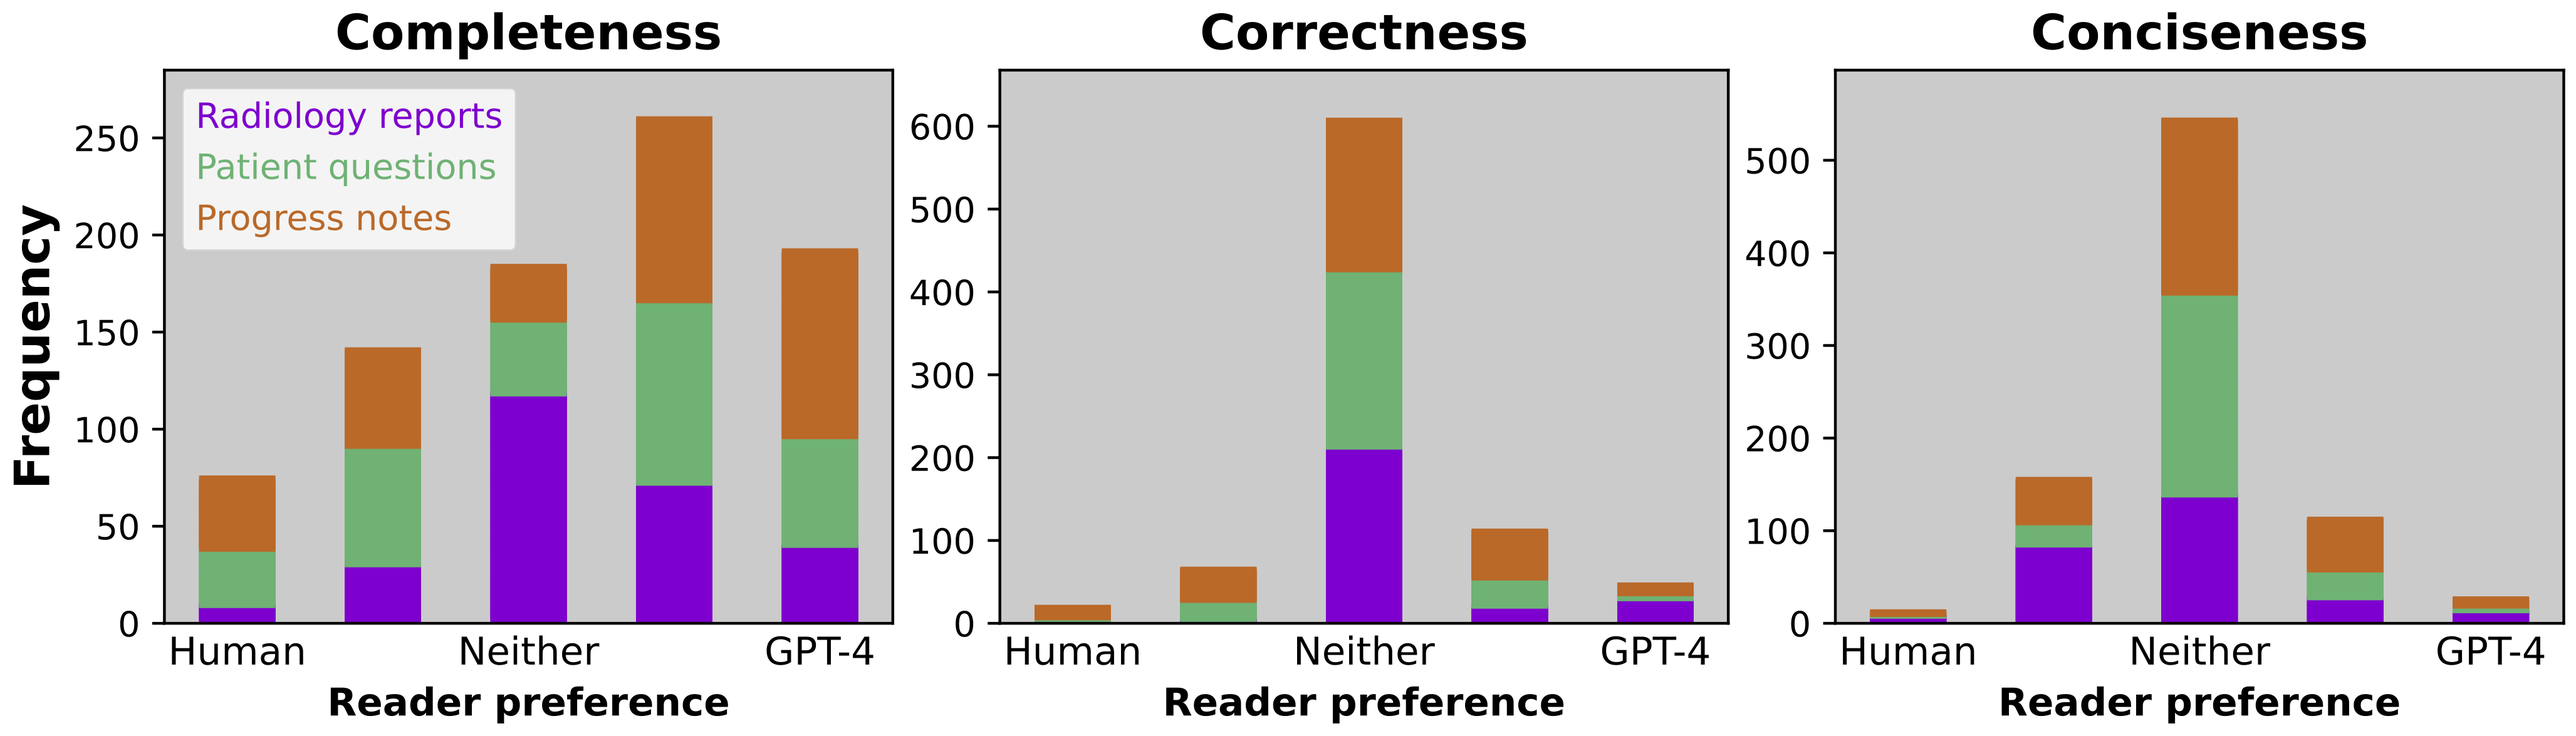
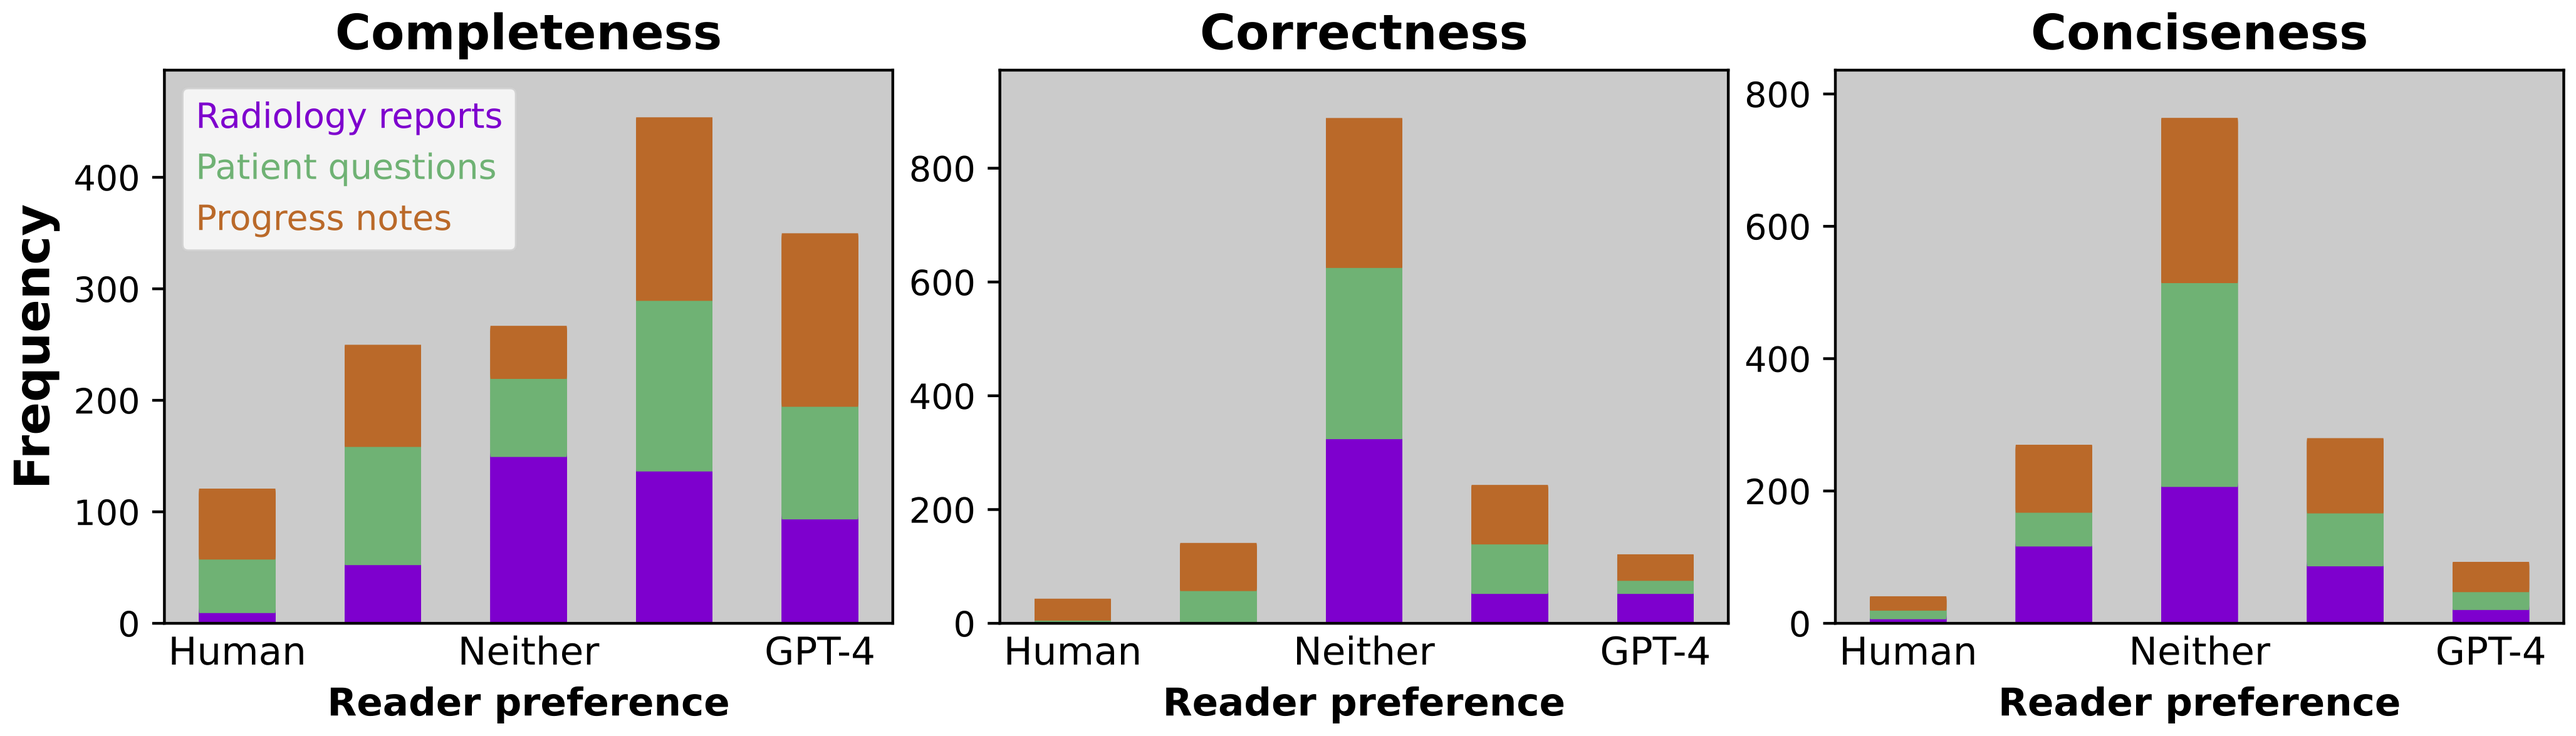
update to arxiv v2

diff --git a/index.html b/index.html
@@ -211,6 +211,29 @@
 					</td>
 					<td align=center width=120px >
 						<center>
+						<span><a href="https://www.linkedin.com/in/edreismd/">Eduardo P.<br />Reis</a></span>
+						</center>
+					</td>
+					<td align=center width=120px >
+						<center>
+						<span><a href="https://profiles.stanford.edu/anna-seehofnerova">Anna<br />Seehofnerova</a></span>
+						</center>
+					</td>
+				</tr>
+				
+				<tr style="font-size: 14px">
+					<td align=center width=120px >
+						<center>
+						<span><a href="https://profiles.stanford.edu/nidhi-rohatgi">Nidhi<br />Rohatgi</a></span>
+						</center>
+					</td>
+					<td align=center width=120px >
+						<center>
+						<span><a href="https://profiles.stanford.edu/poonam-hosamani">Poonam<br />Hosamani</a></span>
+						</center>
+					</td>
+					<td align=center width=120px >
+						<center>
 						<span><a href="https://profiles.stanford.edu/william-collins">William<br />Collins</a></span>
 						</center>
 					</td>
@@ -219,14 +242,14 @@
 						<span><a href="https://profiles.stanford.edu/neera-ahuja">Neera<br />Ahuja</a></span>
 						</center>
 					</td>
-				</tr>
-
-				<tr style="font-size: 14px">
 					<td align=center width=120px >
 						<center>
 						<span><a href="https://profiles.stanford.edu/curtis-langlotz">Curtis P.<br />Langlotz</a></span>
 						</center>
 					</td>
+				</tr>
+
+				<tr style="font-size: 14px">
 					<td align=center width=120px >
 						<center>
 						<span><a href="https://profiles.stanford.edu/jason-hom">Jason<br />Hom</a></span>
@@ -305,9 +328,33 @@
 		<center><h1>Abstract</h1></center>
 		<tr>
 			<td style='text-align: justify;'>
-				<p> Sifting through vast textual data and summarizing key information imposes a substantial burden on how clinicians allocate their time. Although large language models (LLMs) have shown immense promise in natural language processing (NLP) tasks, their efficacy across diverse clinical summarization tasks has not yet been rigorously examined.</p>
-				<p>In this work, we employ domain adaptation methods on eight LLMs, spanning six datasets and four distinct summarization tasks: radiology reports, patient questions, progress notes, and doctor-patient dialogue. Our thorough quantitative assessment reveals trade-offs between models and adaptation methods in addition to instances where recent advances in LLMs may not lead to improved results. Further, in a clinical reader study with six physicians, we depict that summaries from the best adapted LLM are preferable to human summaries in terms of completeness and correctness. Our ensuing qualitative analysis delineates mutual challenges faced by both LLMs and human experts. Lastly, we correlate traditional quantitative NLP metrics with reader study scores to enhance our understanding of how these metrics align with physician preferences.</p>
-				<p>Our research marks the first evidence of LLMs outperforming human experts in clinical text summarization across multiple tasks. This implies that integrating LLMs into clinical workflows could alleviate documentation burden, empowering clinicians to focus more on personalized patient care and other irreplaceable human aspects of medicine. </p>
+				<p>Sifting through vast textual data and summarizing key information from electronic health records (EHR) imposes a substantial burden on how clinicians allocate their time. Although large language models (LLMs) have shown immense promise in natural language processing (NLP) tasks, their efficacy on a diverse range of clinical summarization tasks has not yet been rigorously demonstrated.</p>
+				<p>In this work, we apply domain adaptation methods to eight LLMs, spanning six datasets and four distinct clinical summarization tasks: radiology reports, patient questions, progress notes, and doctor-patient dialogue. Our thorough quantitative assessment reveals trade-offs between models and adaptation methods in addition to instances where recent advances in LLMs may not improve results. Further, in a clinical reader study with ten physicians, we show that summaries from our best-adapted LLMs are preferable to human summaries in terms of completeness and correctness. Our ensuing qualitative analysis highlights challenges faced by both LLMs and human experts. Lastly, we correlate traditional quantitative NLP metrics with reader study scores to enhance our understanding of how these metrics align with physician preferences.</p>
+				<p>Our research marks the first evidence of LLMs outperforming human experts in clinical text summarization across multiple tasks. This implies that integrating LLMs into clinical workflows could alleviate documentation burden, empowering clinicians to focus more on personalized patient care and the inherently human aspects of medicine.</p>
+			</td>
+		</tr>
+	</table>
+	<br>
+    
+	<br>
+    <hr>
+    <br>
+
+	<br>
+	<table align=center width=400px>
+		<tr>
+			<td align=center width=400px >
+				<center >
+					<td class="img-magnifier-container"><img id="myimage" style="width:800px" src="resources/prompt_anatomy.png"/></td>
+				</center>
+			</td>
+		</tr>
+	</table>
+
+	<table align=center width=800px>
+		<tr>
+			<td align=left width=800px>
+				Prompt components used for both adaptation methods: in-context learning (ICL, m &gt; 0) and quantized low-rank adaptation (QLoRA, m &equals; 0).
 			</td>
 		</tr>
 	</table>
@@ -382,7 +429,7 @@
 	<table align=center width=800px>
 		<tr>
 			<td align=left width=800px>
-                    Clinical reader study. Top: Study design comparing the summarization of GPT-4 vs. that of human experts on three attributes: completeness, correctness, and conciseness. Bottom: Results. GPT-4 summaries are rated higher than human summaries on completeness for all three summarization tasks and on correctness overall. Radiology reports highlight a trade-off between correctness (better) and conciseness (worse) with GPT-4. Highlight colors correspond to a value’s location on the color spectrum. Asterisks denote statistical significance by Wilcoxon signed-rank test, &ast;p-value &lt; 0.05, &ast;&ast;p-value &lt;&lt; 0.001.
+					Clinical reader study. Top: Study design comparing the summarization of GPT-4 vs. that of human experts on three attributes: completeness, correctness, and conciseness. Bottom: Results. GPT-4 summaries are rated higher than human summaries on all attributes. The most pronounced difference occurs in completeness without compromising conciseness. Meanwhile for correctness, the radiology reports task most benefits from GPT-4. Highlight colors correspond to a value’s location on the color spectrum. Asterisks denote statistical significance by Wilcoxon signed-rank test, &ast;p-value &lt; 0.001.
 			</td>
 		</tr>
 	</table>
@@ -408,7 +455,7 @@
 	<table align=center width=800px>
 		<tr>
 			<td align=left width=800px>
-                    Distribution of reader scores for each summarization task across evaluated attributes (completeness, correctness, conciseness). Horizontal axes denote reader preference between GPT-4 and human summaries as measured by a five-point Likert scale. Vertical axes denote frequency count, with 900 total reports for each plot. GPT-4 summaries are more often preferred in terms of correctness and completeness. While the largest gain in correctness occurs on radiology reports, this introduces a trade-off with conciseness.
+					Distribution of reader scores for each summarization task across evaluated attributes (completeness, correctness, conciseness). Horizontal axes denote reader preference between GPT-4 and human summaries as measured by a five-point Likert scale. Vertical axes denote frequency count, with 1,500 total reports for each plot. GPT-4 summaries are more often preferred across all attributes. The largest gain in correctness occurs on radiology reports, as no false information was found in GPT-4 summaries for this task.
 			</td>
 		</tr>
 	</table>
@@ -460,7 +507,7 @@
 	<table align=center width=800px>
 		<tr>
 			<td align=left width=800px>
-                    Spearman correlation coefficients between NLP metrics and reader preference assessing completeness, correctness, and conciseness. The semantic metric (BERTScore) and conceptual metric (MEDCON) correlate most highly with correctness. Meanwhile, syntactic metrics BLEU and ROUGE-L correlate most with completeness. Section 5.3 contains further description and discussion.
+                    Spearman correlation coefficients between NLP metrics and reader preference assessing completeness, correctness, and conciseness. The semantic metric (BERTScore) and conceptual metric (MEDCON) correlate most highly with correctness. Meanwhile, syntactic metrics BLEU and ROUGE-L correlate most with completeness.
 			</td>
 		</tr>
 	</table>
@@ -475,7 +522,7 @@
 		<center><h1>Paper</h1></center>
 		<tr>
 			<td><a href="https://arxiv.org/abs/2309.07430"><img class="layered-paper-big" style="height:175px" src="resources/thumbnail.png"/></a></td>
-			<td><span style="font-size:14pt">D. Van Veen, C. Van Uden, L. Blankemeier,<br />J.B. Delbrouck, A. Aali, C. Bluethgen,<br />A. Pareek, M. Polacin, W. Collins<br />N. Ahuja, C.P. Langlotz, J. Hom,<br />S. Gatidis, J. Pauly, A.S. Chaudhari<br>
+			<td><span style="font-size:14pt">D. Van Veen, C. Van Uden, L. Blankemeier,<br />J.B. Delbrouck, A. Aali, C. Bluethgen,<br />A. Pareek, M. Polacin, E.P. Reis<br />A. Seehofnerova, N. Rohatgi, P. Hosamani<br />W. Collins, N. Ahuja, C.P. Langlotz, J. Hom,<br />S. Gatidis, J. Pauly, A.S. Chaudhari<br>
 				<b>Clinical Text Summarization: Adapting Large Language Models Can Outperform Human Experts</b><br>
 				2023. (hosted on <a href="https://arxiv.org/pdf/2309.07430.pdf">ArXiv</a>)<br>
 				<span style="font-size:4pt"><a href=""><br></a>
@@ -501,7 +548,7 @@
 				<left>
 					<center><h1>Acknowledgements</h1></center>
 					<p style="text-align: justify;">
-				We’re grateful to both Narasimhan Balasubramanian and the Accelerate Foundation Models Academic Research (AFMAR) program at Microsoft, who both provided Azure OpenAI credits. Further compute support was provided by One Medical, which Asad Aali used as part of his summer internship. Curtis Langlotz is supported by NIH grants R01 HL155410, R01 HL157235, by AHRQ grant R18HS026886, by the Gordon and Betty Moore Foundation, and by the National Institute of Biomedical Imaging and Bioengineering (NIBIB) under contract 75N92020C00021. Akshay Chaudhari receives support from NIH grants R01 HL167974, R01 AR077604, R01 EB002524, R01 AR079431, and P41 EB027060; from NIH contracts 75N92020C00008 and 75N92020C00021; and from GE Healthcare, Philips, and Amazon.
+						Microsoft provided Azure OpenAI credits for this project via both the Accelerate Foundation Models Academic Research (AFMAR) program and also a cloud services grant to Stanford Data Science. Further compute support was provided by One Medical, which Asad Aali used as part of his summer internship. Curtis Langlotz is supported by NIH grants R01 HL155410, R01 HL157235, by AHRQ grant R18HS026886, by the Gordon and Betty Moore Foundation, and by the National Institute of Biomedical Imaging and Bioengineering (NIBIB) under contract 75N92020C00021. Akshay Chaudhari receives support from NIH grants R01 HL167974, R01 AR077604, R01 EB002524, R01 AR079431, and P41 EB027060; from NIH contracts 75N92020C00008 and 75N92020C00021; and from GE Healthcare, Philips, and Amazon.
 					</p>
 				</left>
 			</td>
